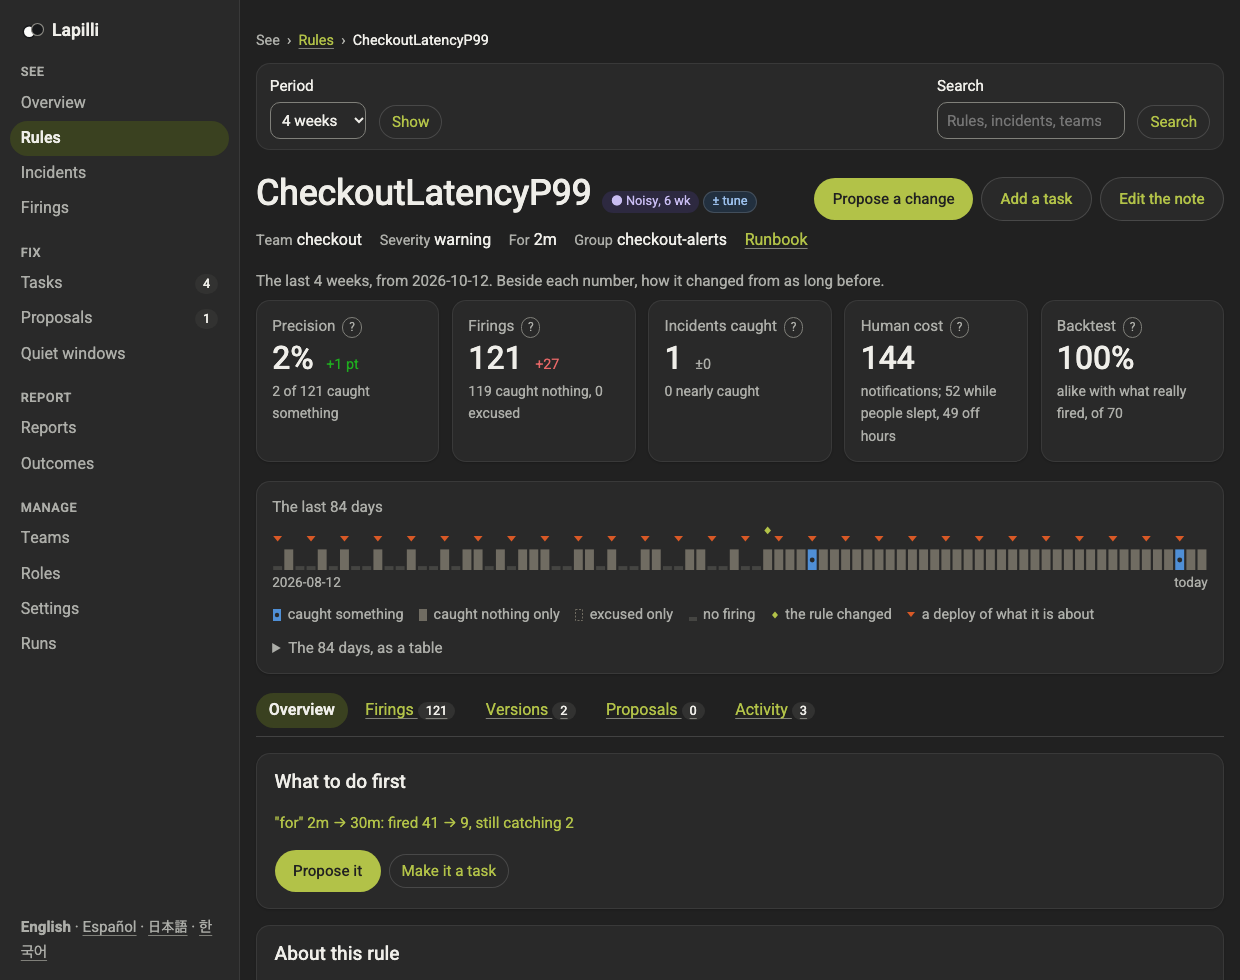
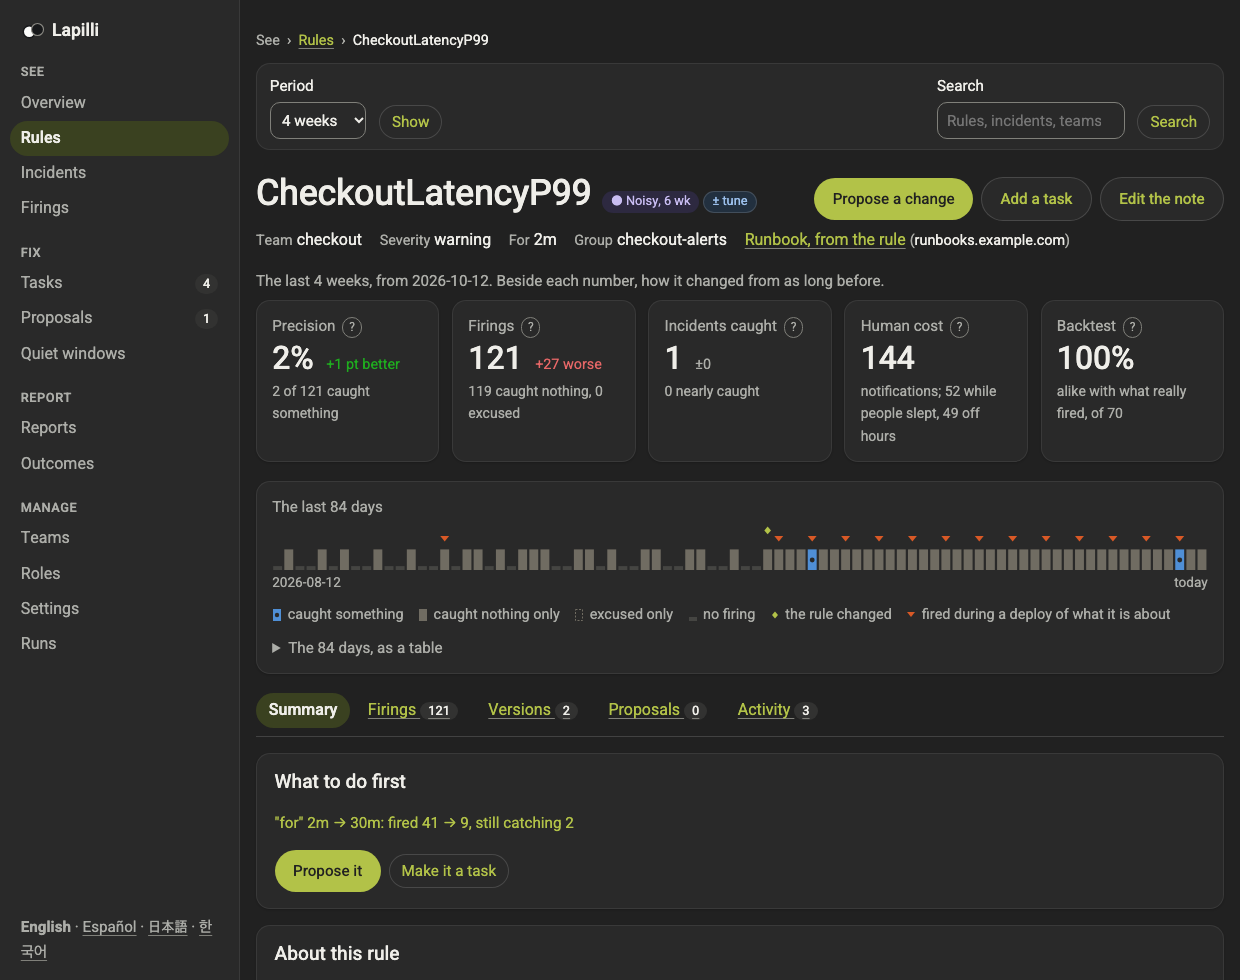
README: a rule's page as it is now, and alt texts of what the pictures show
The rule's screenshots are taken again from the demo: its tabs, the
runbook the rule names, the changes better or worse in words, and the
days it fired during a deploy. The alt texts say what each picture shows
and no more: the time to catch has no number, the notifications and the
backtest nothing beside them; the overview's is the same on the site.

diff --git a/README.md b/README.md
@@ -1155,7 +1155,7 @@ lapilli serve --rules alert-rules/ --prometheus http://prometheus:9090 --match s
 
 <picture>
   <source media="(prefers-color-scheme: dark)" srcset="assets/serve-dashboard-dark.png">
-  <img alt="The lapilli serve overview, with its pages in a sidebar: last week's precision, firings, incidents missed, time to catch, noisy rules, firings that woke people for nothing, re-fires and firings during deploys, each beside the week before, then firings by week" src="assets/serve-dashboard.png" width="820">
+  <img alt="The lapilli serve overview, with its pages in a sidebar: last week's precision, firings, incidents missed, time to catch (none), noisy rules, notifications for firings that caught nothing while people slept, re-fires and firings during deploys, each with a line of its weeks and most beside the week before; under them, the top of the firings by week" src="assets/serve-dashboard.png" width="820">
 </picture>
 
 A web UI opens on a dashboard of the last twelve weeks: last week's
@@ -1191,14 +1191,15 @@ chip that takes it away, and the URL keeps them all
 A rule's page has its badges, what to check about it and what can be done
 at its top; five numbers over the period picked (precision, firings,
 incidents caught, the notifications it sent, and how alike its backtest is
-to what really fired), each beside as long a span before; its last 84
-days, a cell a day, marked where it changed, where what it is about was
-deployed and where a quiet window covered it; and its sections in tabs:
-firings, versions (each beside the one before), proposals and activity.
+to what really fired), each beside as long a span before when the ledger
+holds all of it; its last 84 days, a cell a day, marked where it changed,
+where it fired during a deploy of what it is about and where a quiet
+window was over it; and its sections in tabs: summary, firings, versions
+(each beside the one before), proposals and activity.
 
 <picture>
   <source media="(prefers-color-scheme: dark)" srcset="assets/serve-rule-dark.png">
-  <img alt="A noisy rule's page over four weeks: its badges and actions; precision, firings, incidents caught, notifications sent and the backtest, each beside the four weeks before; its last 84 days as a strip of cells, marked where the rule changed and where checkout was deployed; and its tabs" src="assets/serve-rule.png" width="820">
+  <img alt="A noisy rule's page over four weeks: its name, its badges (noisy six weeks, to tune) and three actions; its team, severity, for, group and the runbook the rule names; precision and firings beside the four weeks before, one better, one worse, incidents caught the same, the notifications it sent and its backtest with nothing beside; its last 84 days as a strip of cells, marked where the rule changed and on the days it fired during a deploy of checkout; its tabs; and what to do first" src="assets/serve-rule.png" width="820">
 </picture>
 
 What an operations team measures its alerts by is there too, week by week

diff --git a/site/index.md b/site/index.md
@@ -20,7 +20,7 @@ incident with no stone is one your alerts missed.</p>
 <div class="shot">
 <picture>
   <source media="(prefers-color-scheme: dark)" srcset="{{ '/serve-dashboard-dark.png' | relative_url }}">
-  <img alt="The lapilli serve overview, with its pages in a sidebar: last week's precision, firings, incidents missed, time to catch, noisy rules, firings that woke people for nothing, re-fires and firings during deploys, each beside the week before, then firings by week" src="{{ '/serve-dashboard.png' | relative_url }}" width="1240" height="980">
+  <img alt="The lapilli serve overview, with its pages in a sidebar: last week's precision, firings, incidents missed, time to catch (none), noisy rules, notifications for firings that caught nothing while people slept, re-fires and firings during deploys, each with a line of its weeks and most beside the week before; under them, the top of the firings by week" src="{{ '/serve-dashboard.png' | relative_url }}" width="1240" height="980">
 </picture>
 </div>
 
